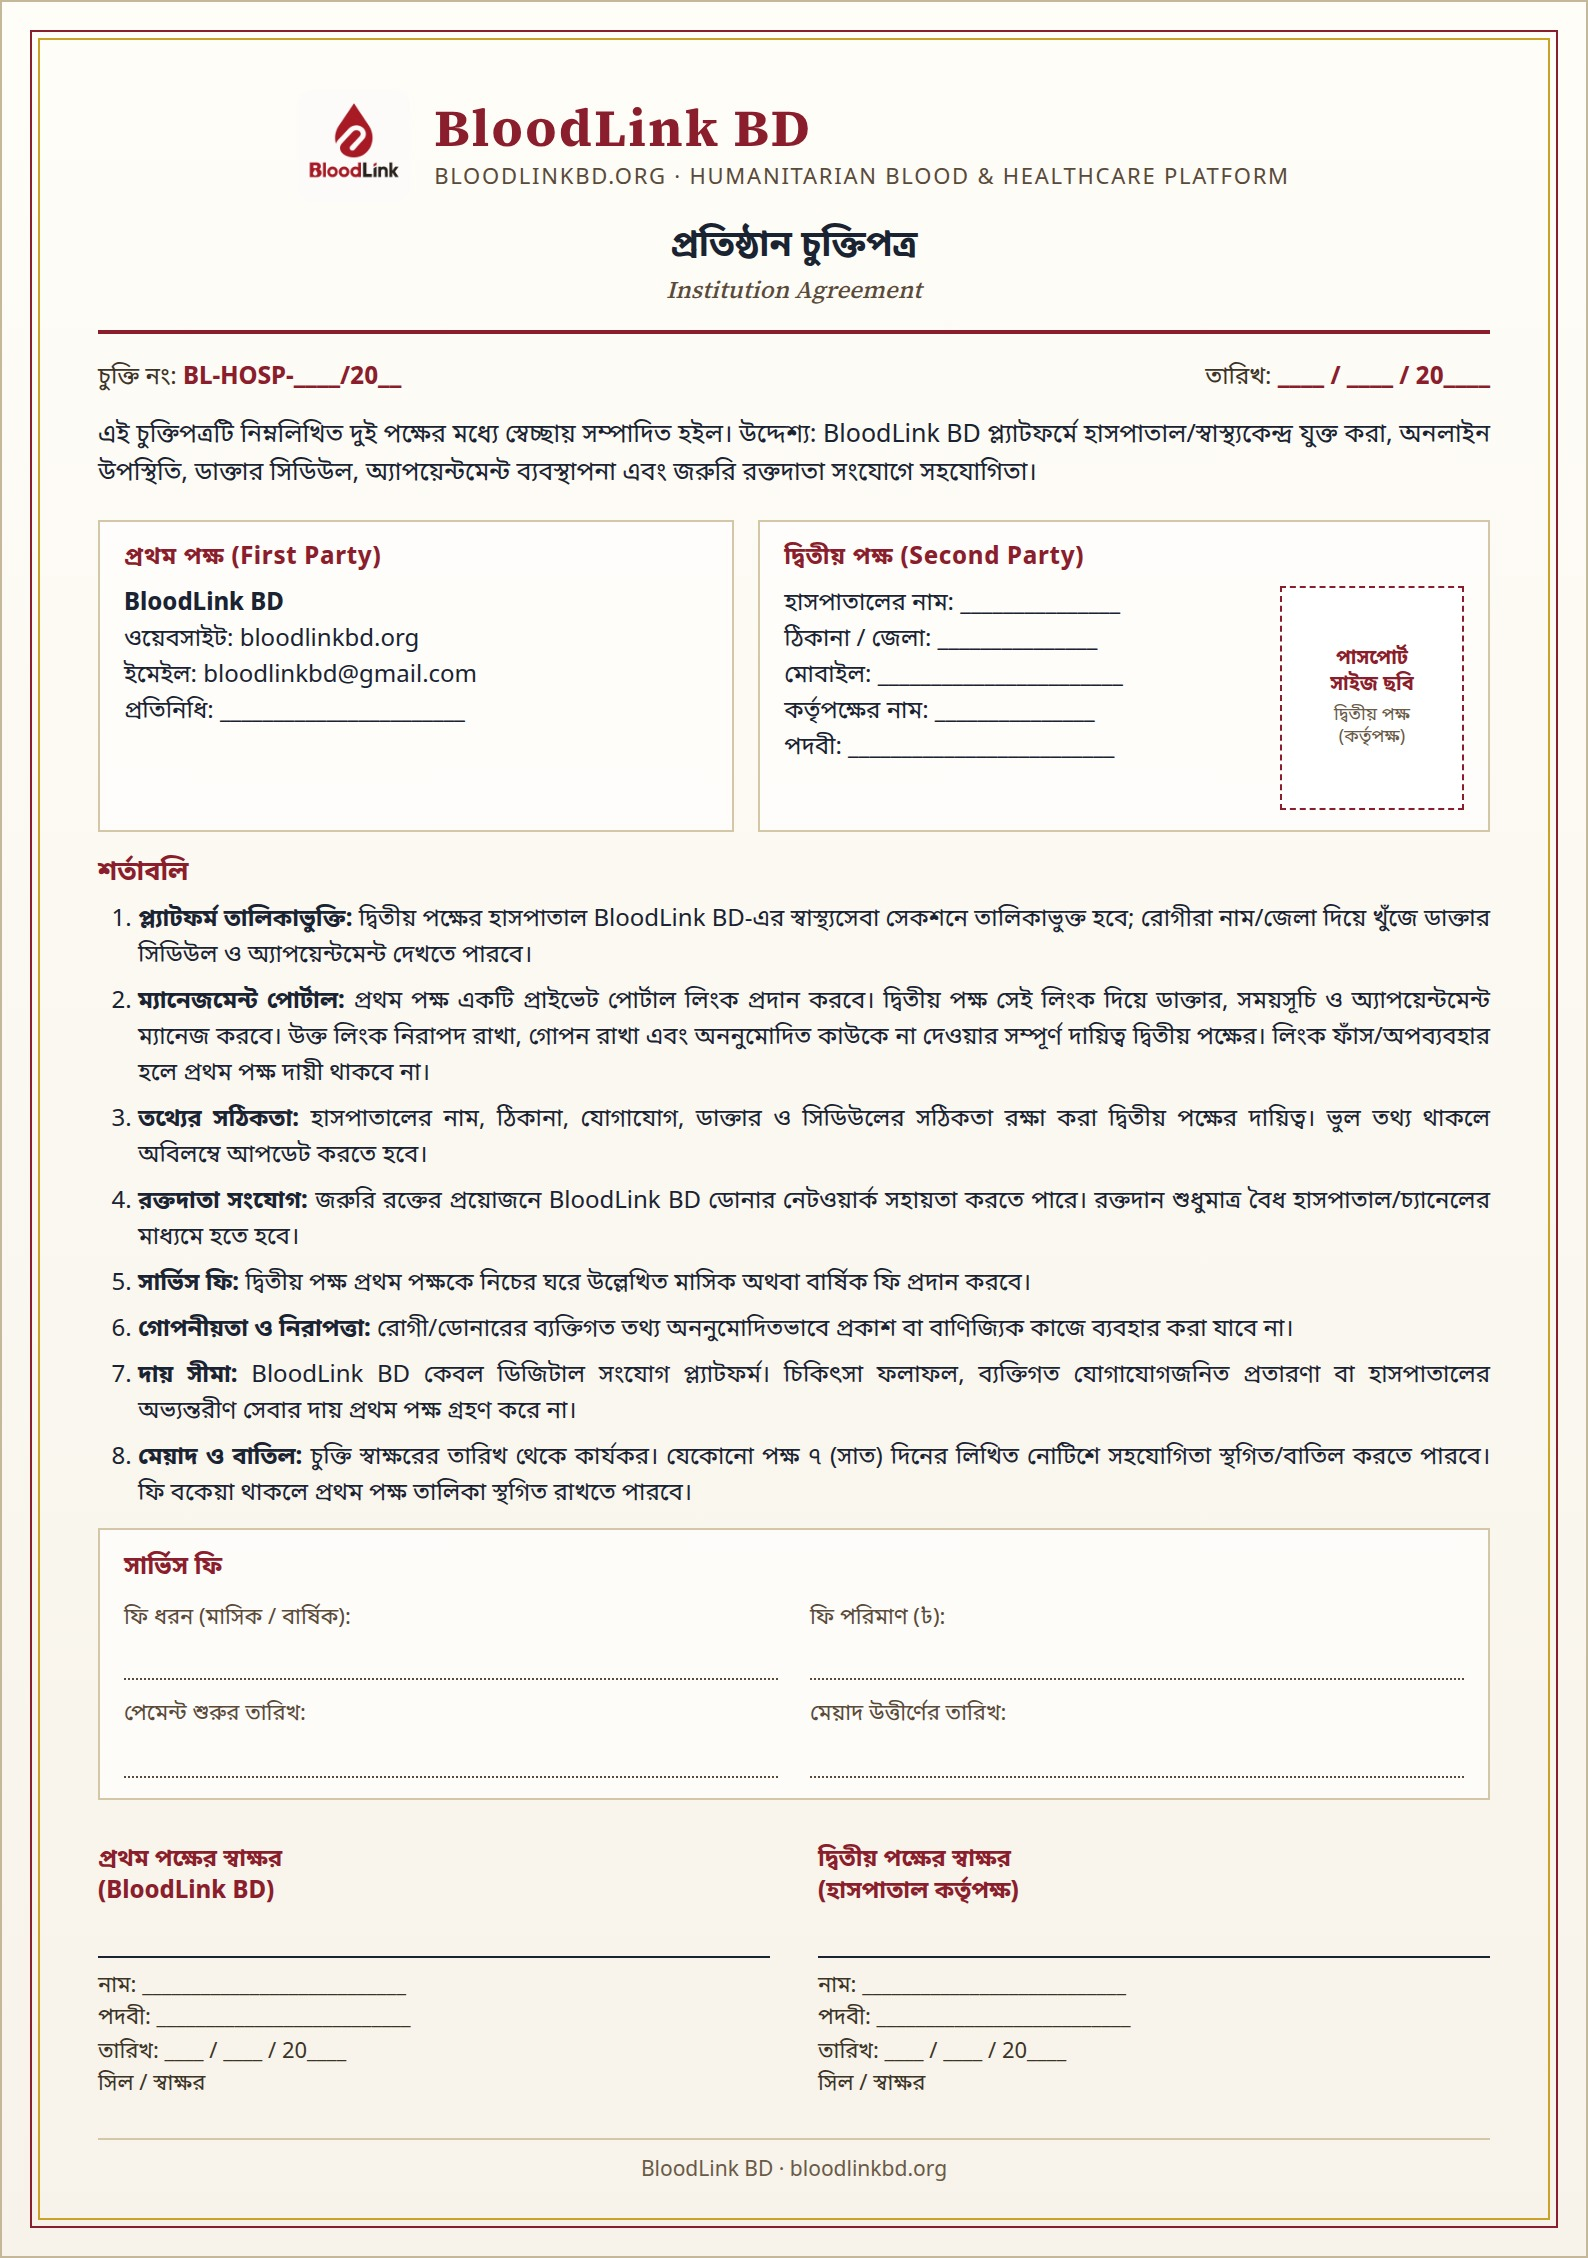
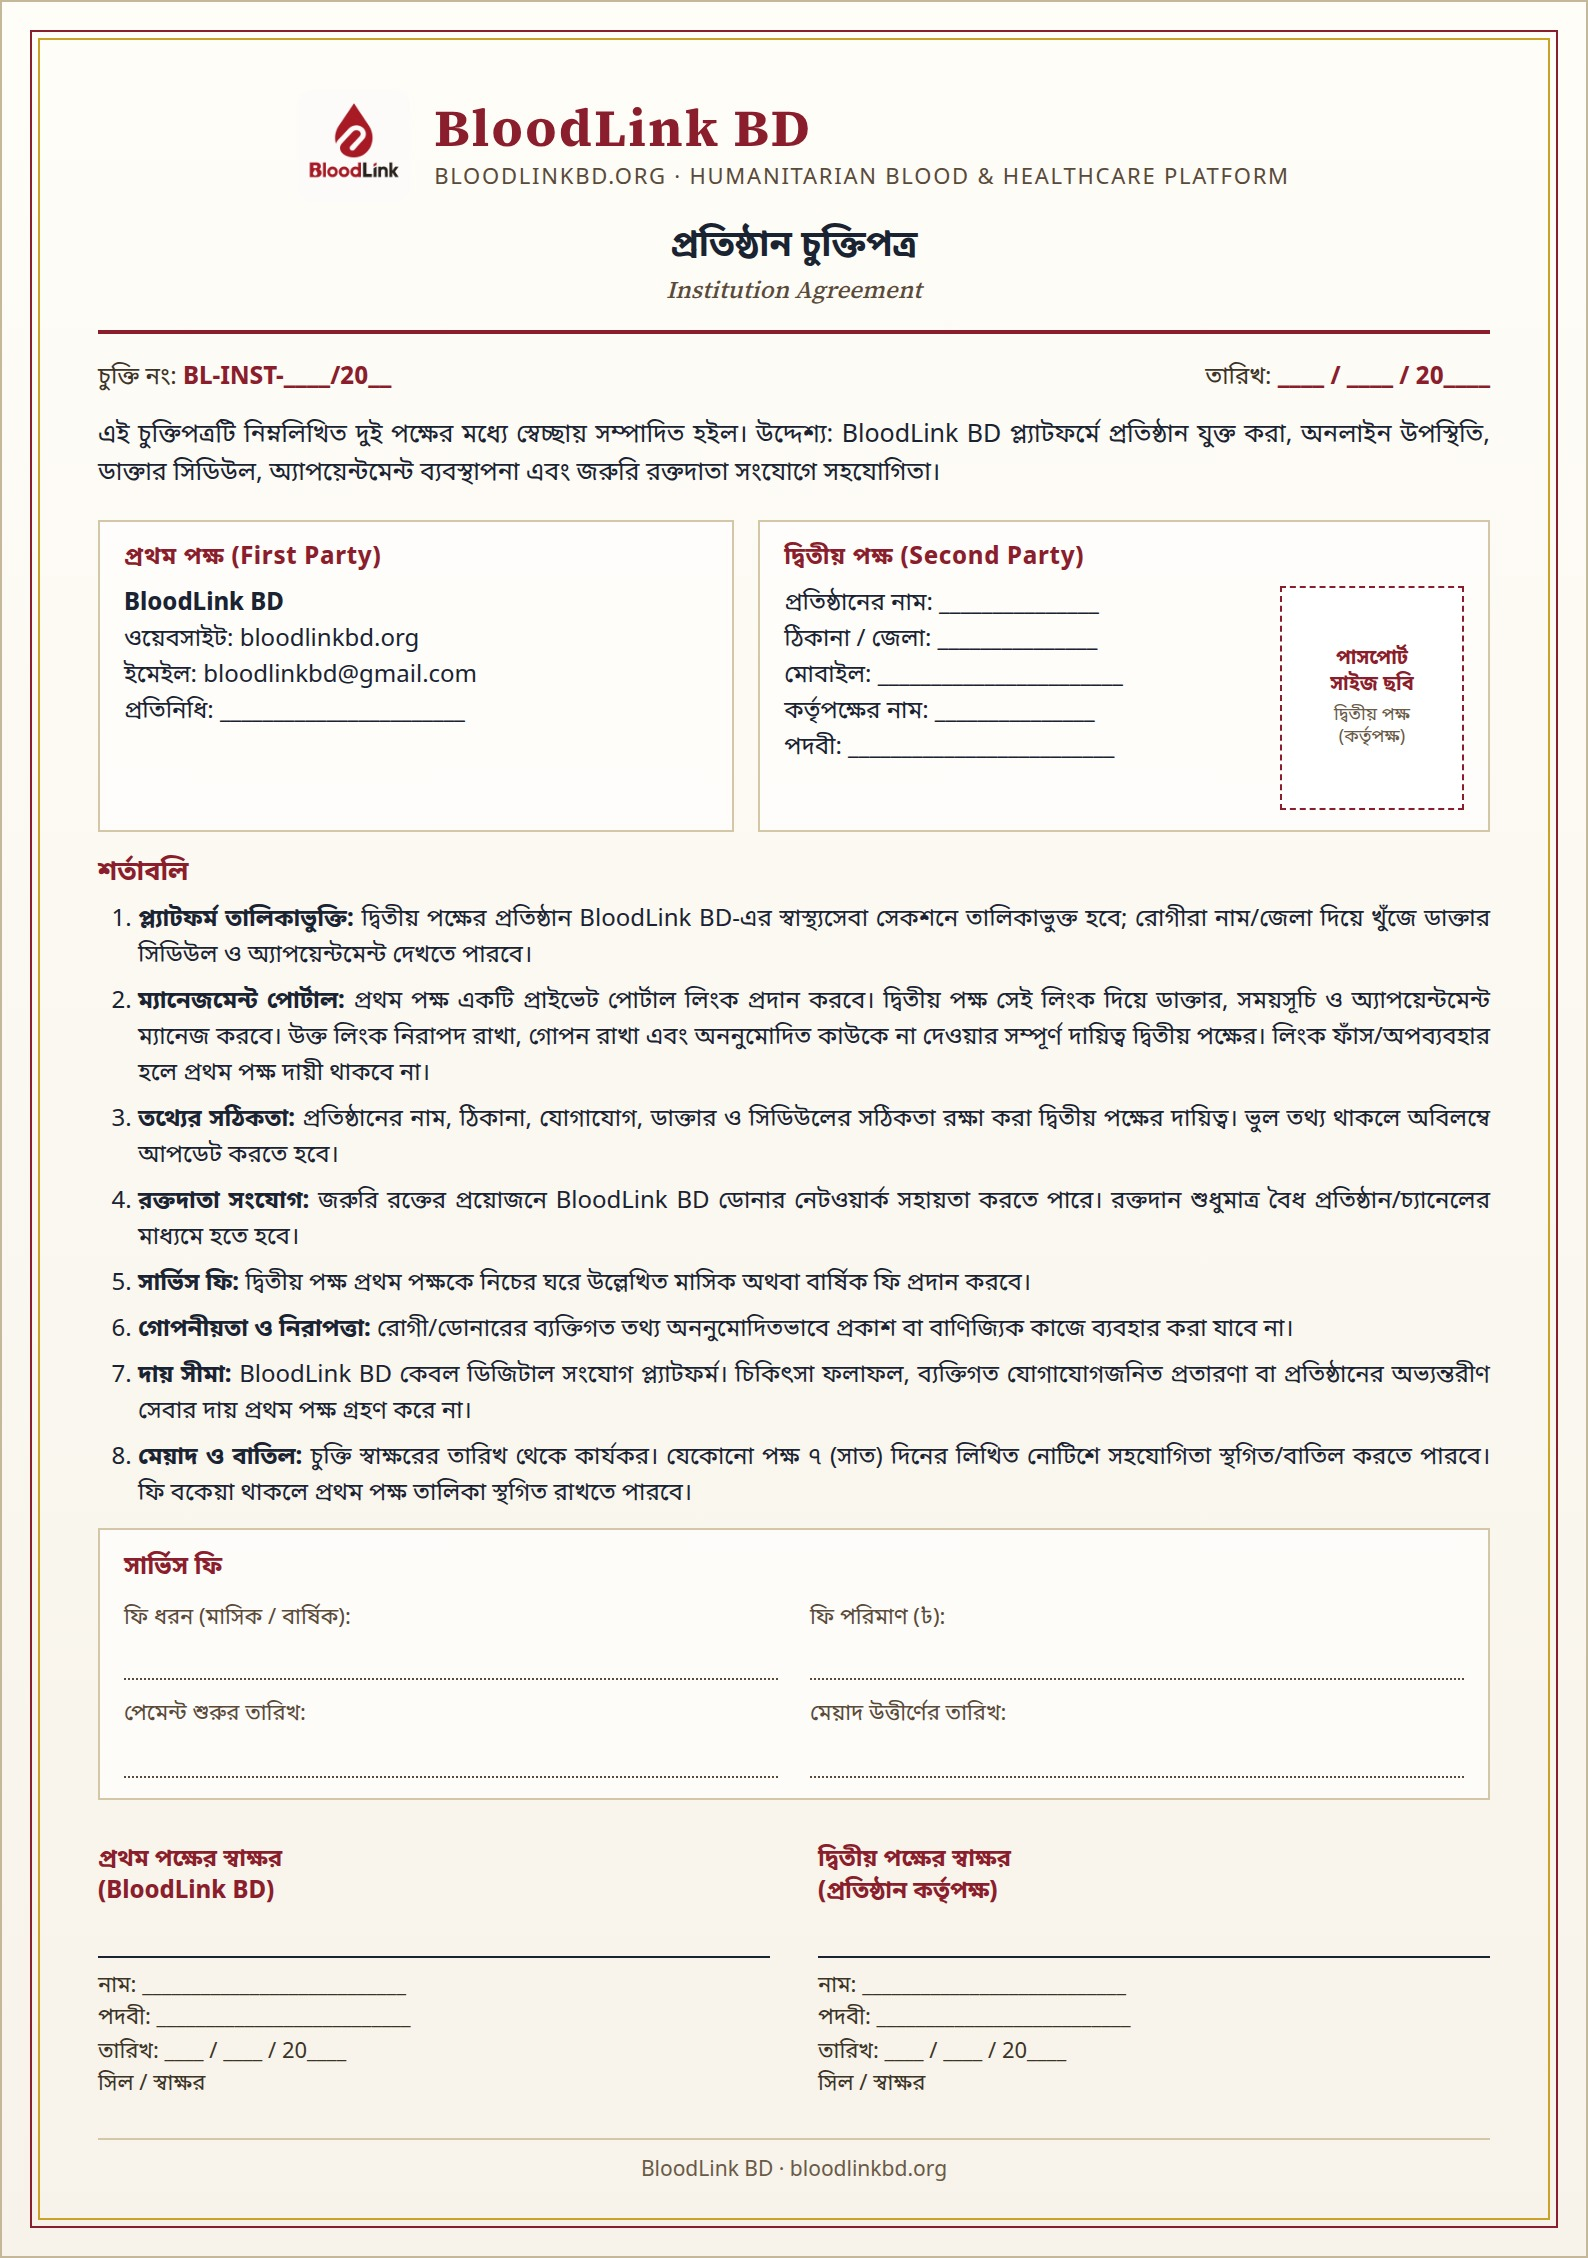
Replace hospital wording with প্রতিষ্ঠান on both agreement forms.
Update party labels, terms, contract codes, and the payment record
to use institution language throughout.

diff --git a/docs/agreements/hospital-partnership-mou.html b/docs/agreements/hospital-partnership-mou.html
@@ -354,13 +354,13 @@
     </div>
 
     <div class="meta">
-      <div>চুক্তি নং: <strong>BL-HOSP-____/20__</strong></div>
+      <div>চুক্তি নং: <strong>BL-INST-____/20__</strong></div>
       <div>তারিখ: <strong>____ / ____ / 20____</strong></div>
     </div>
 
     <p class="intro">
       এই চুক্তিপত্রটি নিম্নলিখিত দুই পক্ষের মধ্যে স্বেচ্ছায় সম্পাদিত হইল। উদ্দেশ্য:
-      BloodLink BD প্ল্যাটফর্মে হাসপাতাল/স্বাস্থ্যকেন্দ্র যুক্ত করা, অনলাইন উপস্থিতি,
+      BloodLink BD প্ল্যাটফর্মে প্রতিষ্ঠান যুক্ত করা, অনলাইন উপস্থিতি,
       ডাক্তার সিডিউল, অ্যাপয়েন্টমেন্ট ব্যবস্থাপনা এবং জরুরি রক্তদাতা সংযোগে সহযোগিতা।
     </p>
 
@@ -378,7 +378,7 @@
         <h3>দ্বিতীয় পক্ষ (Second Party)</h3>
         <div class="party-second">
           <p>
-            হাসপাতালের নাম: _______________<br />
+            প্রতিষ্ঠানের নাম: _______________<br />
             ঠিকানা / জেলা: _______________<br />
             মোবাইল: _______________________<br />
             কর্তৃপক্ষের নাম: _______________<br />
@@ -395,7 +395,7 @@
     <h2>শর্তাবলি</h2>
     <ol class="terms">
       <li>
-        <strong>প্ল্যাটফর্ম তালিকাভুক্তি:</strong> দ্বিতীয় পক্ষের হাসপাতাল BloodLink BD-এর
+        <strong>প্ল্যাটফর্ম তালিকাভুক্তি:</strong> দ্বিতীয় পক্ষের প্রতিষ্ঠান BloodLink BD-এর
         স্বাস্থ্যসেবা সেকশনে তালিকাভুক্ত হবে; রোগীরা নাম/জেলা দিয়ে খুঁজে ডাক্তার সিডিউল ও
         অ্যাপয়েন্টমেন্ট দেখতে পারবে।
       </li>
@@ -406,12 +406,12 @@
         দ্বিতীয় পক্ষের। লিংক ফাঁস/অপব্যবহার হলে প্রথম পক্ষ দায়ী থাকবে না।
       </li>
       <li>
-        <strong>তথ্যের সঠিকতা:</strong> হাসপাতালের নাম, ঠিকানা, যোগাযোগ, ডাক্তার ও সিডিউলের
+        <strong>তথ্যের সঠিকতা:</strong> প্রতিষ্ঠানের নাম, ঠিকানা, যোগাযোগ, ডাক্তার ও সিডিউলের
         সঠিকতা রক্ষা করা দ্বিতীয় পক্ষের দায়িত্ব। ভুল তথ্য থাকলে অবিলম্বে আপডেট করতে হবে।
       </li>
       <li>
         <strong>রক্তদাতা সংযোগ:</strong> জরুরি রক্তের প্রয়োজনে BloodLink BD ডোনার নেটওয়ার্ক
-        সহায়তা করতে পারে। রক্তদান শুধুমাত্র বৈধ হাসপাতাল/চ্যানেলের মাধ্যমে হতে হবে।
+        সহায়তা করতে পারে। রক্তদান শুধুমাত্র বৈধ প্রতিষ্ঠান/চ্যানেলের মাধ্যমে হতে হবে।
       </li>
       <li>
         <strong>সার্ভিস ফি:</strong> দ্বিতীয় পক্ষ প্রথম পক্ষকে নিচের ঘরে উল্লেখিত মাসিক অথবা
@@ -423,7 +423,7 @@
       </li>
       <li>
         <strong>দায় সীমা:</strong> BloodLink BD কেবল ডিজিটাল সংযোগ প্ল্যাটফর্ম। চিকিৎসা ফলাফল,
-        ব্যক্তিগত যোগাযোগজনিত প্রতারণা বা হাসপাতালের অভ্যন্তরীণ সেবার দায় প্রথম পক্ষ গ্রহণ করে না।
+        ব্যক্তিগত যোগাযোগজনিত প্রতারণা বা প্রতিষ্ঠানের অভ্যন্তরীণ সেবার দায় প্রথম পক্ষ গ্রহণ করে না।
       </li>
       <li>
         <strong>মেয়াদ ও বাতিল:</strong> চুক্তি স্বাক্ষরের তারিখ থেকে কার্যকর। যেকোনো পক্ষ
@@ -453,7 +453,7 @@
         </div>
       </div>
       <div class="sig">
-        <h4>দ্বিতীয় পক্ষের স্বাক্ষর<br />(হাসপাতাল কর্তৃপক্ষ)</h4>
+        <h4>দ্বিতীয় পক্ষের স্বাক্ষর<br />(প্রতিষ্ঠান কর্তৃপক্ষ)</h4>
         <div class="line">
           নাম: ___________________________<br />
           পদবী: __________________________<br />
@@ -479,16 +479,16 @@
         </div>
       </div>
       <div class="doc-title">আর্থিক লেনদেন রেকর্ড</div>
-      <div class="doc-title-en">Hospital Service Fee Payment Record</div>
+      <div class="doc-title-en">Institution Service Fee Payment Record</div>
     </div>
 
     <div class="meta">
-      <div>চুক্তি নং: <strong>BL-HOSP-____/20__</strong></div>
+      <div>চুক্তি নং: <strong>BL-INST-____/20__</strong></div>
       <div>তারিখ: <strong>____ / ____ / 20____</strong></div>
     </div>
 
     <div class="ledger-info">
-      <div class="row"><span>হাসপাতালের নাম:</span></div>
+      <div class="row"><span>প্রতিষ্ঠানের নাম:</span></div>
       <div class="row"><span>যোগাযোগ (মোবাইল):</span></div>
       <div class="row"><span>ফি ধরন (মাসিক / বার্ষিক):</span></div>
       <div class="row"><span>নির্ধারিত ফি (৳):</span></div>
@@ -533,7 +533,7 @@
         </div>
       </div>
       <div class="sig">
-        <h4>দ্বিতীয় পক্ষ<br />(হাসপাতাল কর্তৃপক্ষ)</h4>
+        <h4>দ্বিতীয় পক্ষ<br />(প্রতিষ্ঠান কর্তৃপক্ষ)</h4>
         <div class="line">
           নাম: ___________________________<br />
           তারিখ: ____ / ____ / 20____<br />
